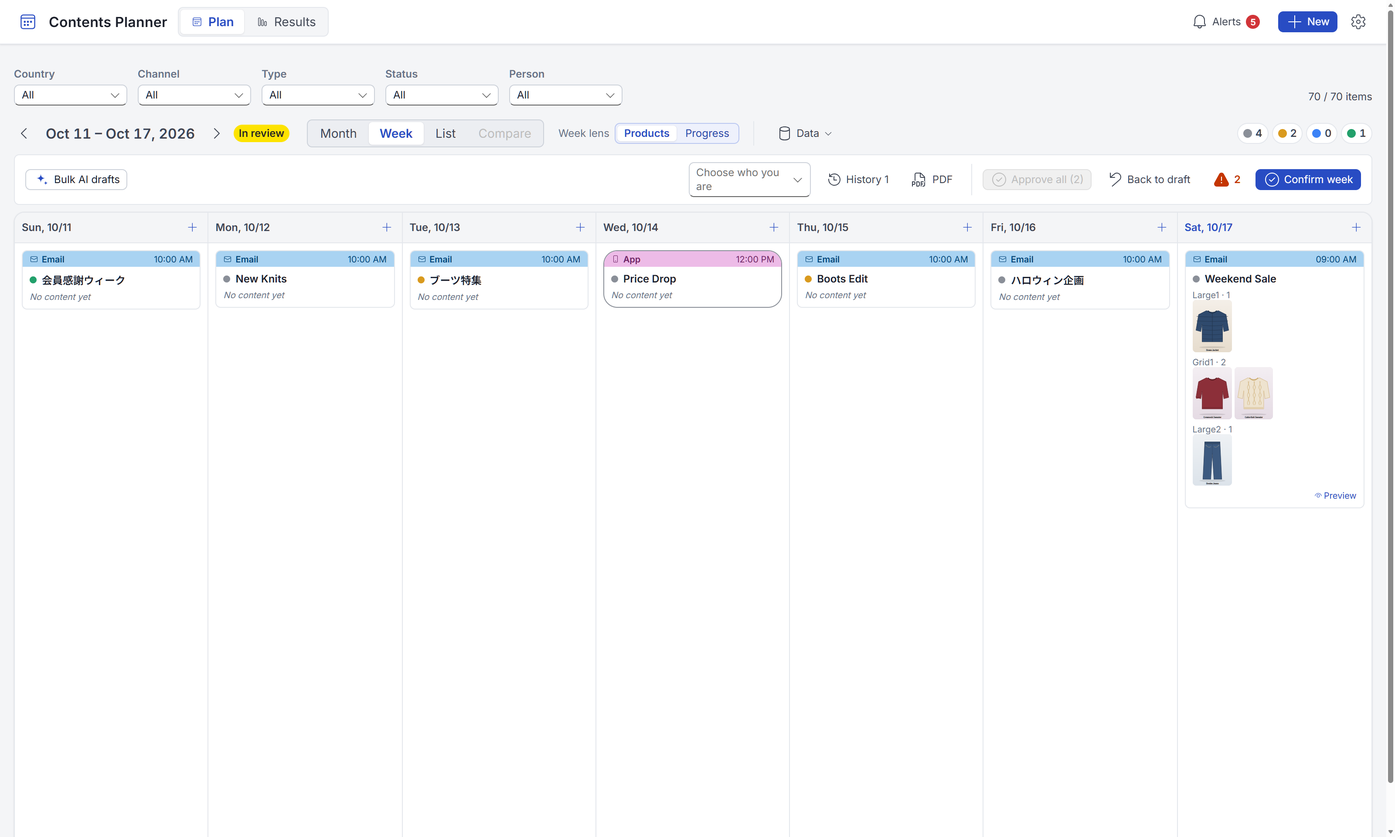
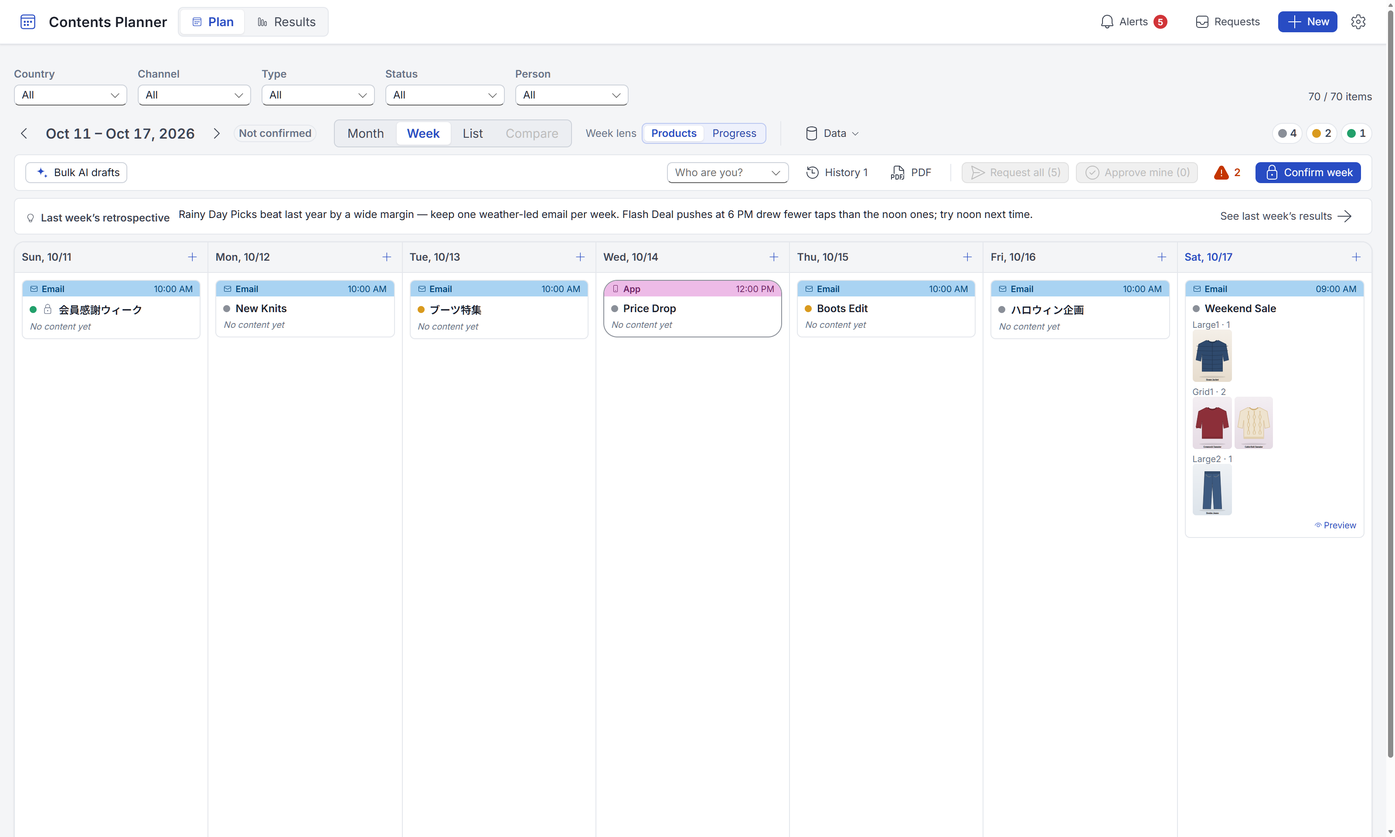
feat: 週ごとの振り返りのメモ(weeks.retro)と、結果の面の「前週」(FLOWS の C-7)
- 表 weeks に列 retro。結果の面の週の表示の上に「この週の振り返り」(src/WeekRetro.tsx。その場で保存。週の行がなければ下書きの行を作る)
- 計画の面の週の表示に「前週の振り返り」と「前週の結果を見る」(週の帯の下)
- 結果の面のツールバーに「前週」(前の週の週表示へ 1 回で移る)
- FEATURES・FLOWS(C-7 ✅)・BACKLOG(X19)・台帳(F103)を更新し、週の表示のスクリーンショットを撮り直す

diff --git a/src/WeekRetro.tsx b/src/WeekRetro.tsx
@@ -1,0 +1,110 @@
+import { useEffect, useState } from 'react'
+import { Button, Textarea, makeStyles, tokens } from '@fluentui/react-components'
+import { ArrowRightRegular, LightbulbRegular, SaveRegular } from '@fluentui/react-icons'
+import { useT } from './i18n'
+
+const useStyles = makeStyles({
+  root: {
+    display: 'flex',
+    alignItems: 'flex-start',
+    columnGap: '10px',
+    rowGap: '6px',
+    flexWrap: 'wrap',
+    padding: '8px 12px',
+    marginBottom: '8px',
+    borderRadius: tokens.borderRadiusMedium,
+    border: `1px solid ${tokens.colorNeutralStroke2}`,
+    backgroundColor: tokens.colorNeutralBackground1,
+  },
+  head: { display: 'inline-flex', alignItems: 'center', columnGap: '6px', fontSize: tokens.fontSizeBase200, fontWeight: tokens.fontWeightSemibold, color: tokens.colorNeutralForeground2, whiteSpace: 'nowrap', paddingTop: '4px' },
+  body: { flex: '1 1 320px', minWidth: 0, display: 'grid', rowGap: '4px' },
+  text: { fontSize: tokens.fontSizeBase200, color: tokens.colorNeutralForeground1, whiteSpace: 'pre-wrap', overflowWrap: 'anywhere' },
+  caption: { fontSize: tokens.fontSizeBase200, color: tokens.colorNeutralForeground3 },
+  actions: { display: 'flex', alignItems: 'center', columnGap: '8px' },
+  saved: { fontSize: tokens.fontSizeBase200, color: tokens.colorPaletteGreenForeground1 },
+})
+
+type Props =
+  | {
+      /** 結果の面: この週の振り返りを書く(保存は、その場で) */
+      mode: 'results'
+      text: string
+      onSave: (text: string) => Promise<boolean>
+    }
+  | {
+      /** 計画の面: 前週の振り返りを出す(読むだけ。書くのは、結果の面の前週) */
+      mode: 'plan'
+      text: string
+      /** 結果の面の前週を開く */
+      onOpenResults: () => void
+    }
+
+/**
+ * 週ごとの振り返りのメモ(FLOWS の C-7)。配信ごとのメモ(学び)とは別に、週全体で気づいたこと・次の週に生かすことを残す。
+ * 結果の面の週の表示で書き、計画の面の週の表示に「前週の振り返り」として出す(翌週の計画を立てるときに、目の前にあるように)
+ */
+export function WeekRetro(props: Props) {
+  const s = useStyles()
+  const t = useT()
+  const [draft, setDraft] = useState(props.text)
+  const [saving, setSaving] = useState(false)
+  const [savedAt, setSavedAt] = useState<number | null>(null)
+  // 週を移ったら、その週のメモに入れ替える
+  useEffect(() => {
+    // eslint-disable-next-line react-hooks/set-state-in-effect
+    setDraft(props.text)
+    setSavedAt(null)
+  }, [props.text])
+
+  if (props.mode === 'plan') {
+    if (!props.text.trim()) return null
+    return (
+      <div className={s.root}>
+        <span className={s.head}>
+          <LightbulbRegular />
+          {t('前週の振り返り', 'Last week’s retrospective')}
+        </span>
+        <div className={s.body}>
+          <div className={s.text}>{props.text}</div>
+        </div>
+        <span className={s.actions}>
+          <Button size="small" appearance="subtle" icon={<ArrowRightRegular />} iconPosition="after" onClick={props.onOpenResults}>
+            {t('前週の結果を見る', 'See last week’s results')}
+          </Button>
+        </span>
+      </div>
+    )
+  }
+
+  const dirty = draft !== props.text
+  const save = async () => {
+    setSaving(true)
+    const ok = await props.onSave(draft.trim())
+    setSaving(false)
+    if (ok) setSavedAt(Date.now())
+  }
+  return (
+    <div className={s.root}>
+      <span className={s.head}>
+        <LightbulbRegular />
+        {t('この週の振り返り', 'This week’s retrospective')}
+      </span>
+      <div className={s.body}>
+        <Textarea
+          size="small"
+          resize="vertical"
+          rows={2}
+          placeholder={t('週全体で気づいたこと・次の週に生かすこと(翌週の計画の面に出ます)', 'What you noticed this week and what to carry into next week (shown on next week’s plan)')}
+          value={draft}
+          onChange={(_, d) => setDraft(d.value)}
+        />
+      </div>
+      <span className={s.actions}>
+        <Button size="small" appearance={dirty ? 'primary' : 'secondary'} icon={<SaveRegular />} disabled={!dirty || saving} onClick={() => void save()}>
+          {t('保存', 'Save')}
+        </Button>
+        {savedAt && !dirty && <span className={s.saved}>{t('保存しました', 'Saved')}</span>}
+      </span>
+    </div>
+  )
+}

diff --git a/src/App.tsx b/src/App.tsx
@@ -59,6 +59,7 @@ import { DeliveryProductsService } from './data/deliveryProducts'
 import { CardNotesService, type CardNote } from './data/cardNotes'
 import { WeeksService, type WeekRow, type WeekStatus } from './data/weeks'
 import { WeekReviewBar, WeekStatusBadge } from './WeekReviewBar'
+import { WeekRetro } from './WeekRetro'
 import { Calendar } from './Calendar'
 import { ListView } from './ListView'
 import { ResultsPage } from './ResultsPage'
@@ -734,6 +735,24 @@ function App() {
     if (!printingWeek) return
     printWeek(`week-plan_${weekKey}`, () => setPrintingWeek(false))
   }, [printingWeek, weekKey])
+  // 前週の行(計画の面に、前週の振り返りを出す)
+  const prevWeek = useMemo(() => {
+    const d = new Date(weekStart.getFullYear(), weekStart.getMonth(), weekStart.getDate() - 7)
+    const k = `${d.getFullYear()}-${String(d.getMonth() + 1).padStart(2, '0')}-${String(d.getDate()).padStart(2, '0')}`
+    return weeks.find((w) => w.week_start?.slice(0, 10) === k)
+  }, [weeks, weekStart])
+  // 週の振り返りのメモを保存する(週の行がなければ、下書きの行を作る)
+  const saveRetro = async (key: string, row: WeekRow | undefined, text: string): Promise<boolean> => {
+    setError(null)
+    const res = row ? await WeeksService.update(row.id, { retro: text }) : await WeeksService.create({ week_start: key, status: 'draft', retro: text })
+    if (!res.success || !res.data) {
+      setError(res.error?.message ?? t('振り返りを保存できませんでした', 'Could not save the retrospective'))
+      return false
+    }
+    const saved = res.data
+    setWeeks((prev) => (prev.some((w) => w.id === saved.id) ? prev.map((w) => (w.id === saved.id ? { ...w, ...saved } : w)) : [...prev, saved]))
+    return true
+  }
   const changeWeek = async (next: WeekStatus) => {
     setError(null)
     try {
@@ -1078,6 +1097,16 @@ function App() {
                 )}
               </span>
               <Button appearance="subtle" size="small" icon={<ChevronRightRegular />} disabled={view === 'compare'} onClick={() => shift(1)} aria-label={view === 'week' ? t('次の週', 'Next week') : t('次の月', 'Next month')} />
+              {/* 結果の面の「前週」: 振り返りは前週から始まるので、1 回で前週の週表示へ(FLOWS の C-7) */}
+              {page === 'results' && (
+                <Button size="small" appearance="subtle" disabled={view === 'compare'} onClick={() => {
+                    const d = new Date()
+                    goTo('week', new Date(d.getFullYear(), d.getMonth(), d.getDate() - 7))
+                  }}
+                >
+                  {t('前週', 'Last week')}
+                </Button>
+              )}
               {/* 週の状態は、その週そのものの状態なので、期間の横に出す(週の帯は、操作だけにする) */}
               {page === 'calendar' && view === 'week' && <WeekStatusBadge week={thisWeek} />}
               {/* 見せ方の切り替え: 枠で囲んだひとかたまりにして、操作のボタンと見分けられるようにする。
@@ -1219,6 +1248,7 @@ function App() {
                 onOpenCard={setSelectedId}
                 onCardsChanged={load}
                 onOpenWeek={(d) => goTo('week', d)}
+                retro={<WeekRetro mode="results" text={thisWeek?.retro ?? ''} onSave={(text) => saveRetro(weekKey, thisWeek, text)} />}
               />
             ) : view === 'list' ? (
               <ListView rows={monthRows} columns={columns} onSelect={setSelectedId} cardProducts={cardProducts} products={products} heroes={heroes} />
@@ -1239,6 +1269,14 @@ function App() {
                     }}
                   />
                 }
+              />
+              <WeekRetro
+                mode="plan"
+                text={prevWeek?.retro ?? ''}
+                onOpenResults={() => {
+                  setPage('results')
+                  goTo('week', new Date(weekStart.getFullYear(), weekStart.getMonth(), weekStart.getDate() - 7))
+                }}
               />
               {printingWeek && (
                 // 週の資料(W7)。印刷のあいだだけ見える(index.css の「週の資料の印刷」)。Portal なので、画面の並びには影響しない

diff --git a/src/ResultsPage.tsx b/src/ResultsPage.tsx
@@ -1,4 +1,4 @@
-import { useEffect, useMemo, useRef, useState } from 'react'
+import { useEffect, useMemo, useRef, useState, type ReactNode } from 'react'
 import { createPortal } from 'react-dom'
 import {
   MessageBar,
@@ -75,6 +75,8 @@ interface Props {
   onCardsChanged: () => Promise<void>
   /** 月の表示で、週の行から、その週の週表示へ移る */
   onOpenWeek?: (sunday: Date) => void
+  /** 週の表示の上に置く、この週の振り返りのメモ(App が WeekRetro を渡す) */
+  retro?: ReactNode
 }
 
 const monthKey = (iso?: string) => localDate(iso).slice(0, 7)
@@ -83,7 +85,7 @@ const monthKey = (iso?: string) => localDate(iso).slice(0, 7)
  * 配信結果(振り返り)の画面。配信のあとに取り込んだ結果を、配信・テーマ・テンプレート・商品ごとに見て、次の計画に生かす。
  * 行を選ぶと、右に、その配信の数字・商品の売れ方・採用した AI の提案・次に生かすメモを出す
  */
-export function ResultsPage({ cards, products, heroes, cardProducts, view, month: monthStart, weekStart, toolbarSlot, detailId, onDetail, onOpenCard, onCardsChanged, onOpenWeek }: Props) {
+export function ResultsPage({ cards, products, heroes, cardProducts, view, month: monthStart, weekStart, toolbarSlot, detailId, onDetail, onOpenCard, onCardsChanged, onOpenWeek, retro }: Props) {
   const styles = useStyles()
   const t = useT()
   const [results, setResults] = useState<DeliveryResult[] | null>(null)
@@ -420,7 +422,10 @@ export function ResultsPage({ cards, products, heroes, cardProducts, view, month
             }}
           />
         ) : view === 'week' ? (
+          <>
+          {retro}
           <ResultsWeek weekStart={weekStart} cards={periodCards} results={resultByCard} money={money} onOpen={openDelivery} cardProducts={cardProducts} products={products} heroes={heroes} />
+          </>
         ) : rows.length === 0 ? (
           <div className={styles.empty}>{t('この条件の配信結果はまだありません', 'No results for these filters yet')}</div>
         ) : (

diff --git a/src/mock/seed.ts b/src/mock/seed.ts
@@ -242,7 +242,14 @@ export const layoutTemplates: Row[] = [
 // ---- 週の計画(週のレビューの状態)
 export const weeks: Row[] = [
   { id: guid('week:2026-09-27'), week_start: '2026-09-27', status: 'confirmed', submitted_at: '2026-09-22T06:00:00.000Z', confirmed_at: '2026-09-24T08:00:00.000Z' },
-  { id: guid('week:2026-10-04'), week_start: '2026-10-04', status: 'confirmed', submitted_at: '2026-09-29T06:00:00.000Z', confirmed_at: '2026-10-01T08:00:00.000Z' },
+  {
+    id: guid('week:2026-10-04'),
+    week_start: '2026-10-04',
+    status: 'confirmed',
+    submitted_at: '2026-09-29T06:00:00.000Z',
+    confirmed_at: '2026-10-01T08:00:00.000Z',
+    retro: 'Rainy Day Picks beat last year by a wide margin — keep one weather-led email per week. Flash Deal pushes at 6 PM drew fewer taps than the noon ones; try noon next time.',
+  },
   { id: guid('week:2026-10-11'), week_start: '2026-10-11', status: 'review', submitted_at: '2026-10-07T06:00:00.000Z' },
 ]
 

diff --git a/src/data/weeks.ts b/src/data/weeks.ts
@@ -14,6 +14,8 @@ export interface WeekRow {
   submitted_at?: string
   /** 確定した日時(ISO) */
   confirmed_at?: string
+  /** この週の振り返りのメモ(結果の面で書き、翌週の計画の面に出す。FLOWS の C-7) */
+  retro?: string
 }
 
 interface Result<T> {

diff --git a/scripts/feature-reasons.py b/scripts/feature-reasons.py
@@ -114,6 +114,7 @@ F = [
  ('F100','配信カード','保存して次へ(同じ週、または確認の一覧で選んだ項目の、次の配信を開く)','保存のたびに閉じて、次の配信をカレンダーで探し直す手間をなくすため','【文書】FLOWS C-1、BACKLOG X9',False),
  ('F101','カレンダー','絞り込みの「担当」(企画・制作の担当。質問の宛先・質問した人・タスクの担当も含む)','自分がかかわる配信だけを見る入り口にするため(制作担当にも)','【文書】FLOWS C-2、BACKLOG X10',False),
  ('F102','カレンダー','月のカレンダーの各週に「週 ›」(その週の週表示へ移る)。計画の「CSV で書き出す」を、結果と同じ「データ ▾」のメニューに。凡例は色の点だけ(名前はマウスを重ねると)','月を見てから、その週のレビューへ短く移るため。計画と結果で、同じ位置に同じ形の部品を置くため。毎回読まない凡例に場所を取らせないため','【文書】FLOWS C-4・C-5・C-6、PRINCIPLES 4-1・2-3・5-4',False),
+ ('F103','結果','週ごとの振り返りのメモ(結果の面の週で書き、翌週の計画の面に「前週の振り返り」として出す)。結果の面の「前週」の近道','振り返りの気づきを、配信ごとではなく週の単位でも残し、次の週の計画を立てるときに目の前にあるようにするため','【文書】FLOWS C-7、PRINCIPLES 3-2・4-1',False),
 ]
 
 # 作業・確認 → 機能(実装済み・一部だけ)
@@ -137,7 +138,7 @@ M = {
  '17-作1':['F05'],'17-作2':['F32'],'17-作3':['F34'],'17-確1':['F05'],'17-確2':['F55', 'F05'],
  '18-作1':['F60', 'F96'],
  '19-作1':['F61'],'19-作2':['F61'],'19-作3':['F66', 'F101'],'19-作5':['F65'],'19-確1':['F61'],'19-確2':['F47'],'19-確3':['F67', 'F98', 'F101'],
- '20-作1':['F77'],'20-作2':['F79', 'F80', 'F86'],'20-作3':['F84', 'F85'],'20-確1':['F78', 'F79', 'F82', 'F83'],'20-確2':['F81', 'F87'],'20-確3':['F81'],
+ '20-作1':['F77'],'20-作2':['F79', 'F80', 'F86'],'20-作3':['F84', 'F85', 'F103'],'20-確1':['F78', 'F79', 'F82', 'F83'],'20-確2':['F81', 'F87'],'20-確3':['F81'],
  '21-作1':['F08'],'21-作2':['F41', 'F40'],'21-作3':['F88'],'21-作4':['F89'],'21-作5':['F91', 'F95'],'21-作6':['F90'],'21-作7':['F90'],'21-作8':['F91'],'21-作9':['F91'],'21-作10':['F92'],'21-作11':['F92'],'21-作12':['F93'],'21-確1':['F47', 'F43', 'F88', 'F94'],'21-確2':['F90'],'21-確3':['F90'],'21-確4':['F88'],'21-確5':['F88'],'21-確6':['F89'],'21-確7':['F90'],'21-確8':['F91'],'21-確10':['F92'],
 }
 

diff --git a/docs/FEATURE_REASONS.md b/docs/FEATURE_REASONS.md
@@ -22,7 +22,7 @@
 
 ## 1. 理由の台帳(機能 → 理由)
 
-利用者の作業・確認を支える機能 100 件。「対応する作業・確認」の番号は、USER_STORIES.md の各行の番号。
+利用者の作業・確認を支える機能 101 件。「対応する作業・確認」の番号は、USER_STORIES.md の各行の番号。
 
 | ID | 分類 | 機能 | 理由 | 根拠 | 対応する作業・確認 |
 |---|---|---|---|---|---|
@@ -126,6 +126,7 @@
 | F100 | 配信カード | 保存して次へ(同じ週、または確認の一覧で選んだ項目の、次の配信を開く) | 保存のたびに閉じて、次の配信をカレンダーで探し直す手間をなくすため | 【文書】FLOWS C-1、BACKLOG X9 | 2-作5 |
 | F101 | カレンダー | 絞り込みの「担当」(企画・制作の担当。質問の宛先・質問した人・タスクの担当も含む) | 自分がかかわる配信だけを見る入り口にするため(制作担当にも) | 【文書】FLOWS C-2、BACKLOG X10 | 19-作3, 19-確3 |
 | F102 | カレンダー | 月のカレンダーの各週に「週 ›」(その週の週表示へ移る)。計画の「CSV で書き出す」を、結果と同じ「データ ▾」のメニューに。凡例は色の点だけ(名前はマウスを重ねると) | 月を見てから、その週のレビューへ短く移るため。計画と結果で、同じ位置に同じ形の部品を置くため。毎回読まない凡例に場所を取らせないため | 【文書】FLOWS C-4・C-5・C-6、PRINCIPLES 4-1・2-3・5-4 | 2-作2 |
+| F103 | 結果 | 週ごとの振り返りのメモ(結果の面の週で書き、翌週の計画の面に「前週の振り返り」として出す)。結果の面の「前週」の近道 | 振り返りの気づきを、配信ごとではなく週の単位でも残し、次の週の計画を立てるときに目の前にあるようにするため | 【文書】FLOWS C-7、PRINCIPLES 3-2・4-1 | 20-作3 |
 
 ### 支える仕組み(ユーザーストーリーに含めないもの)
 
@@ -391,7 +392,7 @@
 |---|---|---|---|
 | 20-作1 | ✅ | 配信の結果(開封率・クリック率・売上)を、配信カードに取り込む | F77 結果の取り込み(CSV。配信名と配信日で配信を探す) |
 | 20-作2 | ✅ | 結果を、テーマ・テンプレート・商品ごとに、まとめて見る | F79 結果の月・週・一覧・比べる(計画と同じカレンダー・一覧の部品。月は売上・開封率・前年比、週はクリックを重ねたプレビュー)<br>F80 結果をまとめて見る(テーマ・テーマの種類・テンプレート・商品ごと)<br>F86 詳しい結果の書き出し(PDF。A4 縦 1 枚) |
-| 20-作3 | ✅ | 振り返りのメモを残す(次に生かすこと) | F84 次に生かすメモと、AI の振り返り(良かったこと・悪かったこと・次に試すこと。採用した行だけメモに残す)<br>F85 これまでの学び(同じテンプレート・テーマの種類の過去のメモを、配信カードに出し、AI の案にも渡す) |
+| 20-作3 | ✅ | 振り返りのメモを残す(次に生かすこと) | F84 次に生かすメモと、AI の振り返り(良かったこと・悪かったこと・次に試すこと。採用した行だけメモに残す)<br>F85 これまでの学び(同じテンプレート・テーマの種類の過去のメモを、配信カードに出し、AI の案にも渡す)<br>F103 週ごとの振り返りのメモ(結果の面の週で書き、翌週の計画の面に「前週の振り返り」として出す)。結果の面の「前週」の近道 |
 | 20-確1 | ✅ | 配信ごとの反応と、前週・前年との比較 | F78 計画と結果を、同じ画面の表と裏にする(ツールバーは共通で、切り替えても期間・見せ方・絞り込みのまま)<br>F79 結果の月・週・一覧・比べる(計画と同じカレンダー・一覧の部品。月は売上・開封率・前年比、週はクリックを重ねたプレビュー)<br>F82 過去の配信と比べる(同じテンプレート、または同じテーマの種類。位置ごとのクリックの割合も)<br>F83 テーマの種類(値下げ・セール・新作など。AI で分け、手で直せる) |
 | 20-確2 | ✅ | 商品ごとに、配信で訴求したあと、売上・在庫がどう動いたか | F81 詳しい結果(主な数字、プレビューにリンクごとのクリックを重ねる、リンクの表、商品ごとの動き、採用した AI の案)<br>F87 計画と結果の行き来(画面を切り替えず、上に重ねて開く。閉じると元に戻る) |
 | 20-確3 | ✅ | AI の案(採用したもの)と、結果の関係(AI の案の良し悪し) | F81 詳しい結果(主な数字、プレビューにリンクごとのクリックを重ねる、リンクの表、商品ごとの動き、採用した AI の案) |

diff --git a/docs/FLOWS.md b/docs/FLOWS.md
@@ -168,7 +168,7 @@
 | C-4 ✅ | F5 | (2026-10-17 に入れた。X15)月のカレンダーの各週の先頭(日曜日)に「週 ›」。押すと、その週の週表示へ移る(結果の面でも) | 新しい近道。いまの移り方は残す |
 | C-5 ✅ | F6 | (2026-10-17 に入れた。X15)計画の「CSV で書き出す」を、結果と同じ「データ ▾」のメニューにした | ツールバーの同じ位置に、同じ形の部品 |
 | C-6 ✅ | F7 | (2026-10-17 に入れた。X16)凡例を色の点だけにし、名前はマウスを重ねる(キーボードで選ぶ)と出す。週の表示では件数を点の横に | 場所が空いた。位置は変えていない |
-| C-7 | F8 | 週ごとの振り返りのメモ(週の状態の帯に置く)。結果の面に「前週」の近道 | 機能の追加。バックログの振り返り(6 章)と合わせて決める |
+| C-7 ✅ | F8 | (2026-10-17 に入れた。X19)週ごとの振り返りのメモ(weeks.retro)。結果の面の週の表示で書き、計画の面の週の表示に「前週の振り返り」として出す。結果の面のツールバーに「前週」 | 週の帯は触らず、帯の下に置いた |
 | C-8 ✅ | F10 | (2026-10-17 に入れた。X12)確認の一覧を「確定の前に直すこと」にする。問題のある項目だけを、何をするかと一緒に出す。問題のない項目は「ほか n 項目は OK」にまとめる。「週を確定」の横に「直すこと n 件」 | 位置は変えない。OK の項目は消さずに、押すと出る |
 | C-10 ✅ | F12・F7 | (2026-10-17 に入れた。X14)週の状態の帯を 1 行に。状態(週の状態・状態ごとの件数)と作業(ボタン)を分ける。週の状態は期間の横、件数は凡例に入れる(凡例と件数の重なりも解消)。確定の前に直すことは「週を確定」の左の印(⚠ n)にたたみ、押すと一覧が重なって開く。「最初の配信を開く」から「保存して次へ」で順に直す。選んだ項目の札は、右のボタンがずれないよう帯の左に | 帯が 2 段から 1 段に。ボタンは消していない |
 | C-9 ✅ | F11 | (2026-10-17 に入れた。X13)質問を、誰からでも誰にでも(宛先・返信する人)。「担当」の絞り込みに、質問の宛先・タスクの担当も含める | 置き場所は変えない |
@@ -211,11 +211,10 @@
 
 | 候補 | 内容 | メモ |
 |---|---|---|
-| C-7 | 週ごとの振り返りのメモ、結果の面の「前週」の近道 | 機能の追加。BACKLOG の振り返り(6 章)と一緒に |
 | 承認して次へ | 「保存して承認」「差し戻す」は、いまは閉じる。レビューで続けて承認できるようにするか | X9 で「使ってみてから」とした |
 | 案 B | 質問・タスク・コメントを 1 つの時系列の一覧にまとめる(データは同じ表 `card_notes`) | 案 A を使ってみてから判断、とした |
 
-**おすすめの順**: C-3〜C-6・F9 は済み。残りは C-7(機能の追加。利用者と相談してから)。C-6 は見た目だけ。C-7・案 B は機能の追加なので、利用者と相談してから。
+**おすすめの順**: C-1〜C-10・F9 はすべて済み(2026-10-17)。次の整理は、利用者が実際に使ってみてから出た声をもとに決める。C-6 は見た目だけ。C-7・案 B は機能の追加なので、利用者と相談してから。
 
 ### 7.5 進め方の決まり
 

diff --git a/docs/FEATURES.md b/docs/FEATURES.md
@@ -225,7 +225,8 @@
 ### 5.14 結果の振り返り
 - **結果の取り込み**: 結果の面の「データ ▾」から、CSV(配信名・配信日・送った数・開封・クリック・注文・売上・前年の売上)を取り込む。「取り込みの見本」もある。CSV で取り込むのは、配信ごとの数字。リンクごとのクリック・商品ごとの結果は、データにあれば、ヒートマップや商品の表に出す。
 - **月**: 計画の面と同じカレンダーで、配信ごとに売上・開封率(アプリはタップ率)・前年比。左の線の色は前年比(上なら緑、下なら赤)。結果がまだの配信は灰色。
-- **週**: 日ごとに、**クリックを重ねたプレビュー**(ヒートマップ)と主な数字。
+- **週**: 日ごとに、**クリックを重ねたプレビュー**(ヒートマップ)と主な数字。上に「**この週の振り返り**」のメモ(週全体で気づいたこと・次の週に生かすこと。その場で保存)。ツールバーの「**前週**」で、前の週の週表示に 1 回で移れる。
+- **前週の振り返り**: 計画の面の週の表示に、前の週に書いた振り返りが出る(「前週の結果を見る」で、結果の面の前週へ)。
 - **一覧**: 計画の面と同じ表(左にサムネイル。列見出しで並べ替え)。開封率・クリック率・売上・前週比・前年比。**テーマ / テーマの種類 / テンプレート / 商品**ごとにまとめて見ることもできる。書き出しもできる。
 - **比べる**: ツールバーの絞り込みと、テンプレート・テーマの種類・配信名で絞った、直近 5 / 10 / 20 回の配信を、ヒートマップと数字で並べる。AI の評価も出せる。
 - **詳しい結果**(配信を押すと上に重なる): 主な数字、プレビューの上に**リンクごとのクリックを濃さで重ねる**(メイン画像・ボタン・商品)、リンクの表、商品ごとのクリック・売れた数と配信の前後の販売・在庫、採用したテーマ・見出し・テンプレート・メイン画像と AI の理由。

diff --git a/docs/BACKLOG.md b/docs/BACKLOG.md
@@ -149,6 +149,7 @@
 | X16 | ✅ | 凡例を小さくする(FLOWS の C-6。2026-10-17)。ツールバー右端の凡例を、ステータスの色の点だけにし、名前はマウスを重ねる(キーボードで選ぶ)と出す。週の表示では、その週の件数を点の横に出す | — | なし |
 | X17 | ✅ | 制作の担当・締め切り・引き継ぎ済みの入力を 1 か所に(FLOWS の C-3。2026-10-17)。入力は「やり取り → 引き継ぎ」のタブだけ(締め切りもここで決める)。左の配信情報は要約の表示だけで、押すとそのタブが開く(`ContentPane.tabRequest`) | — | なし |
 | X18 | ✅ | コンテンツ生成のタブが狭い幅で横にスクロールする(FLOWS の F9。2026-10-17)。タブの列が幅に収まらなければ番号(①〜⑥)だけにし、名前はマウスを重ねると出す(`ContentPane` の `compact`)。英語の「6. Production notes」「6. Timing & audience」は「6. Notes」「6. Timing」に短く | — | なし |
+| X19 | ✅ | 週ごとの振り返りのメモと、結果の面の「前週」(FLOWS の C-7。2026-10-17)。表 weeks に列 retro。結果の面の週の表示の上に「この週の振り返り」(`src/WeekRetro.tsx`。その場で保存。週の行がなければ下書きの行を作る)。計画の面の週の表示に「前週の振り返り」と「前週の結果を見る」。ツールバー(結果の面)に「前週」 | — | なし |
 
 (2026-10-12: プレビューは、配信カードのチャネルに合わせて 1 種類だけにした(メールとプッシュの切り替えをやめた)。X6 の前段)
 
